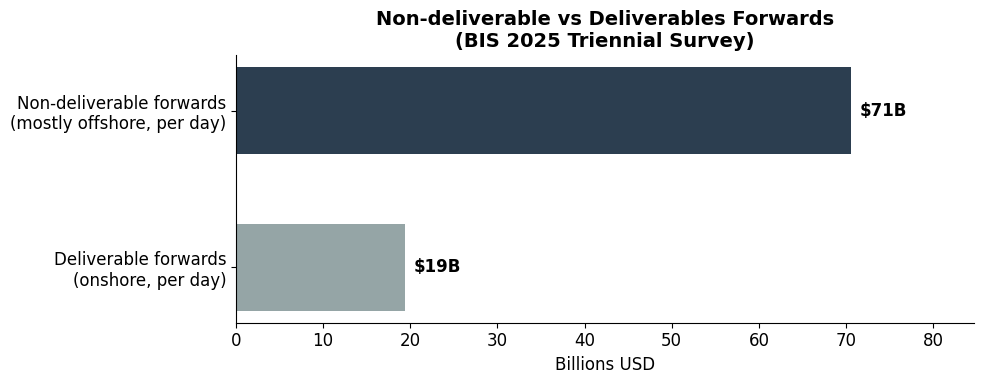
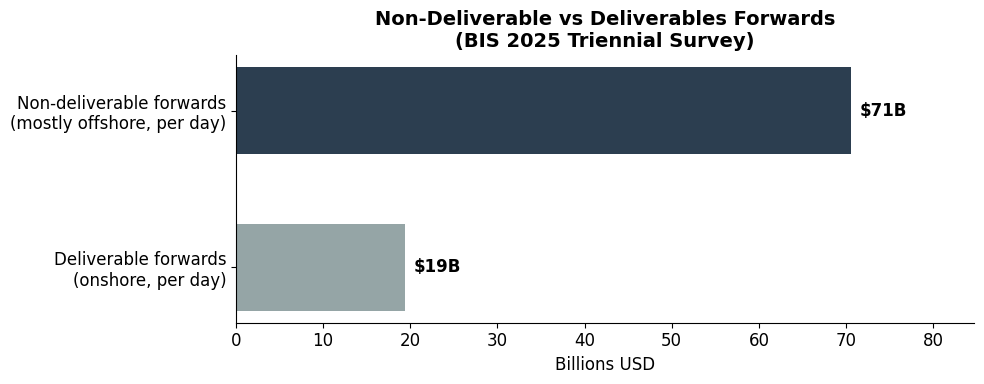
changing title of image

Changed region(s): [[0.3659, 0.0312, 0.8537, 0.0625]]

diff --git a/substack_prep.py b/substack_prep.py
@@ -278,6 +278,26 @@ def markdown_table_to_df(table_text: str) -> pd.DataFrame:
     return pd.DataFrame(rows, columns=header)
 
 
+def extract_table_title(text: str, table_start: int) -> str | None:
+    """Extract a bold title from the line(s) immediately above a table.
+
+    Looks for a pattern like **Some Title** on the non-empty line preceding
+    the table and returns the text without the ``**`` markers.
+    """
+    before = text[:table_start].rstrip("\n")
+    lines = before.splitlines()
+    # Walk backwards past blank lines
+    for line in reversed(lines):
+        stripped = line.strip()
+        if not stripped:
+            continue
+        m = re.match(r"^\*\*(.+?)\*\*$", stripped)
+        if m:
+            return m.group(1)
+        break
+    return None
+
+
 def find_markdown_tables(text: str) -> list[tuple[str, int, int]]:
     """Find markdown pipe tables. Returns list of (table_text, start, end)."""
     pattern = re.compile(
@@ -430,15 +450,19 @@ def process_tables(
             print(f"  ⚠ Table {table_num}: Failed to parse HTML table — {e}")
             continue
 
+        # Strip bold markers from column headers
+        df.columns = [re.sub(r"\*\*(.+?)\*\*", r"\1", c) for c in df.columns]
+
         csv_data = df.to_csv(index=False)
         cache_key = csv_data.strip()
-        chart_title = f"{post_title} — Table {table_num}"
+        extracted_title = extract_table_title(text, start)
+        chart_title = extracted_title or post_title
 
         if dry_run:
             print(f"  Table {table_num} (HTML, {len(df)} rows): would upload to Datawrapper as \"{chart_title}\"")
             preview = df.to_string(index=False, max_rows=4)
             print(f"    Preview:\n    {preview.replace(chr(10), chr(10) + '    ')}")
-            replacements.append((start, end, f"[DATAWRAPPER EMBED — Table {table_num}: \"{chart_title}\"]"))
+            replacements.append((start, end, f"[DATAWRAPPER EMBED: \"{chart_title}\"]"))
         else:
             if cache_key in cache:
                 chart_id = cache[cache_key]
@@ -463,15 +487,19 @@ def process_tables(
             print(f"  ⚠ Table {table_num}: Failed to parse markdown table — {e}")
             continue
 
+        # Strip bold markers from column headers
+        df.columns = [re.sub(r"\*\*(.+?)\*\*", r"\1", c) for c in df.columns]
+
         csv_data = df.to_csv(index=False)
         cache_key = csv_data.strip()
-        chart_title = f"{post_title} — Table {table_num}"
+        extracted_title = extract_table_title(text, start)
+        chart_title = extracted_title or post_title
 
         if dry_run:
             print(f"  Table {table_num} (Markdown, {len(df)} rows): would upload to Datawrapper as \"{chart_title}\"")
             preview = df.to_string(index=False, max_rows=4)
             print(f"    Preview:\n    {preview.replace(chr(10), chr(10) + '    ')}")
-            replacements.append((start, end, f"[DATAWRAPPER EMBED — Table {table_num}: \"{chart_title}\"]"))
+            replacements.append((start, end, f"[DATAWRAPPER EMBED: \"{chart_title}\"]"))
         else:
             if cache_key in cache:
                 chart_id = cache[cache_key]